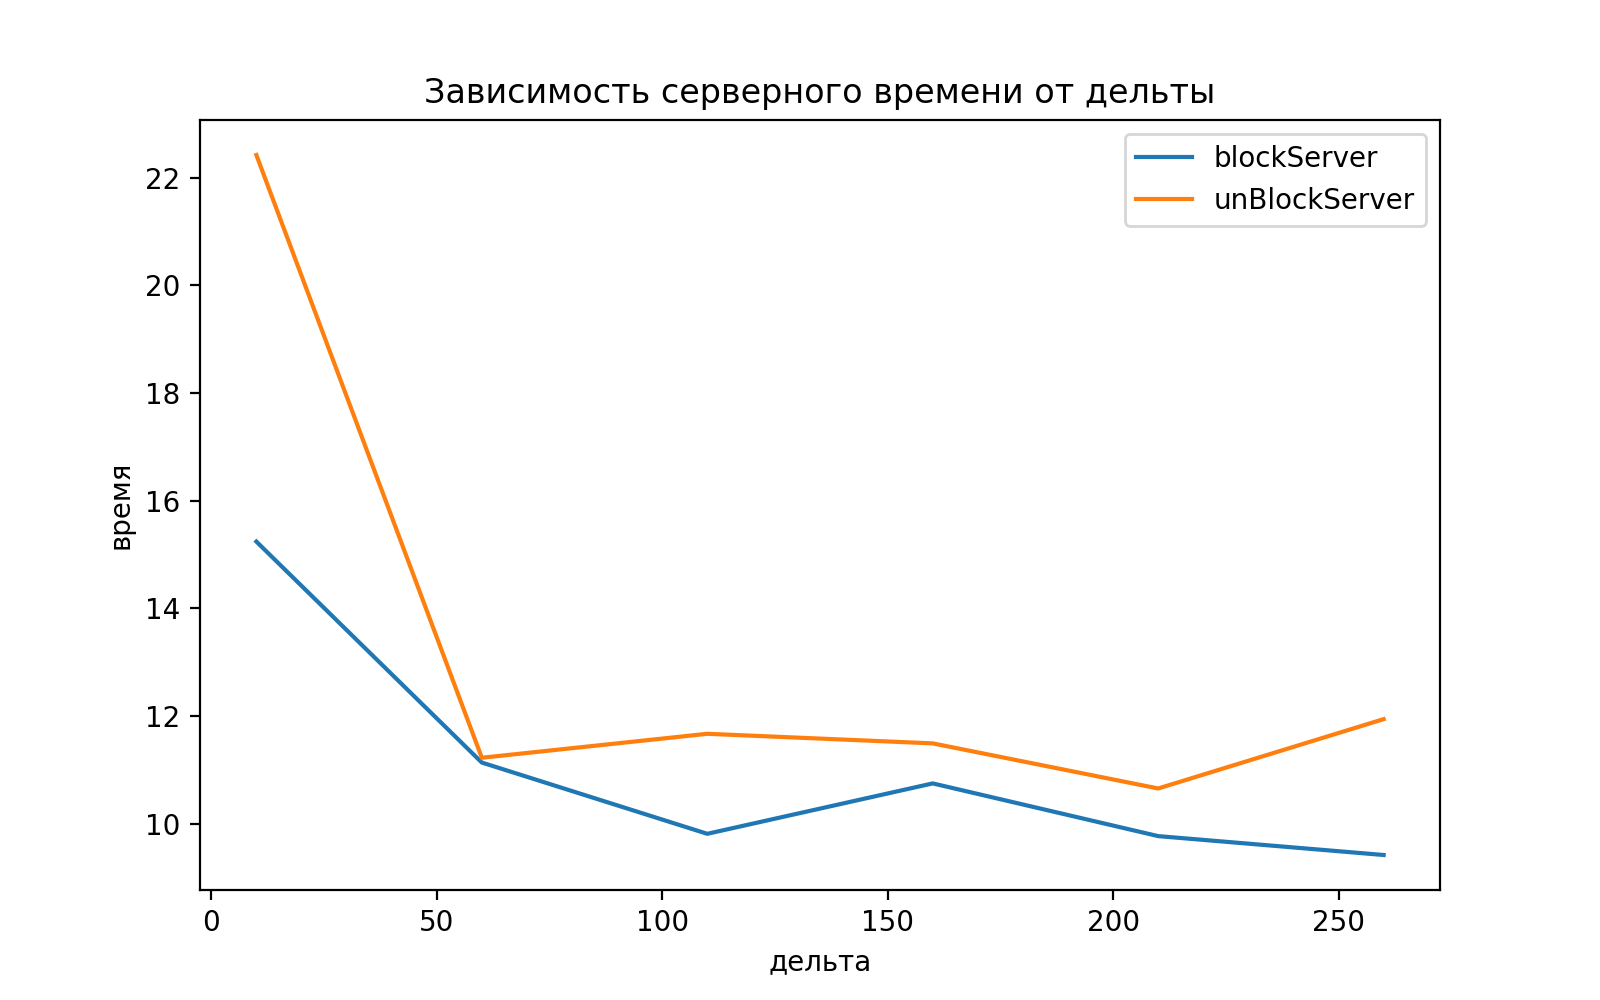
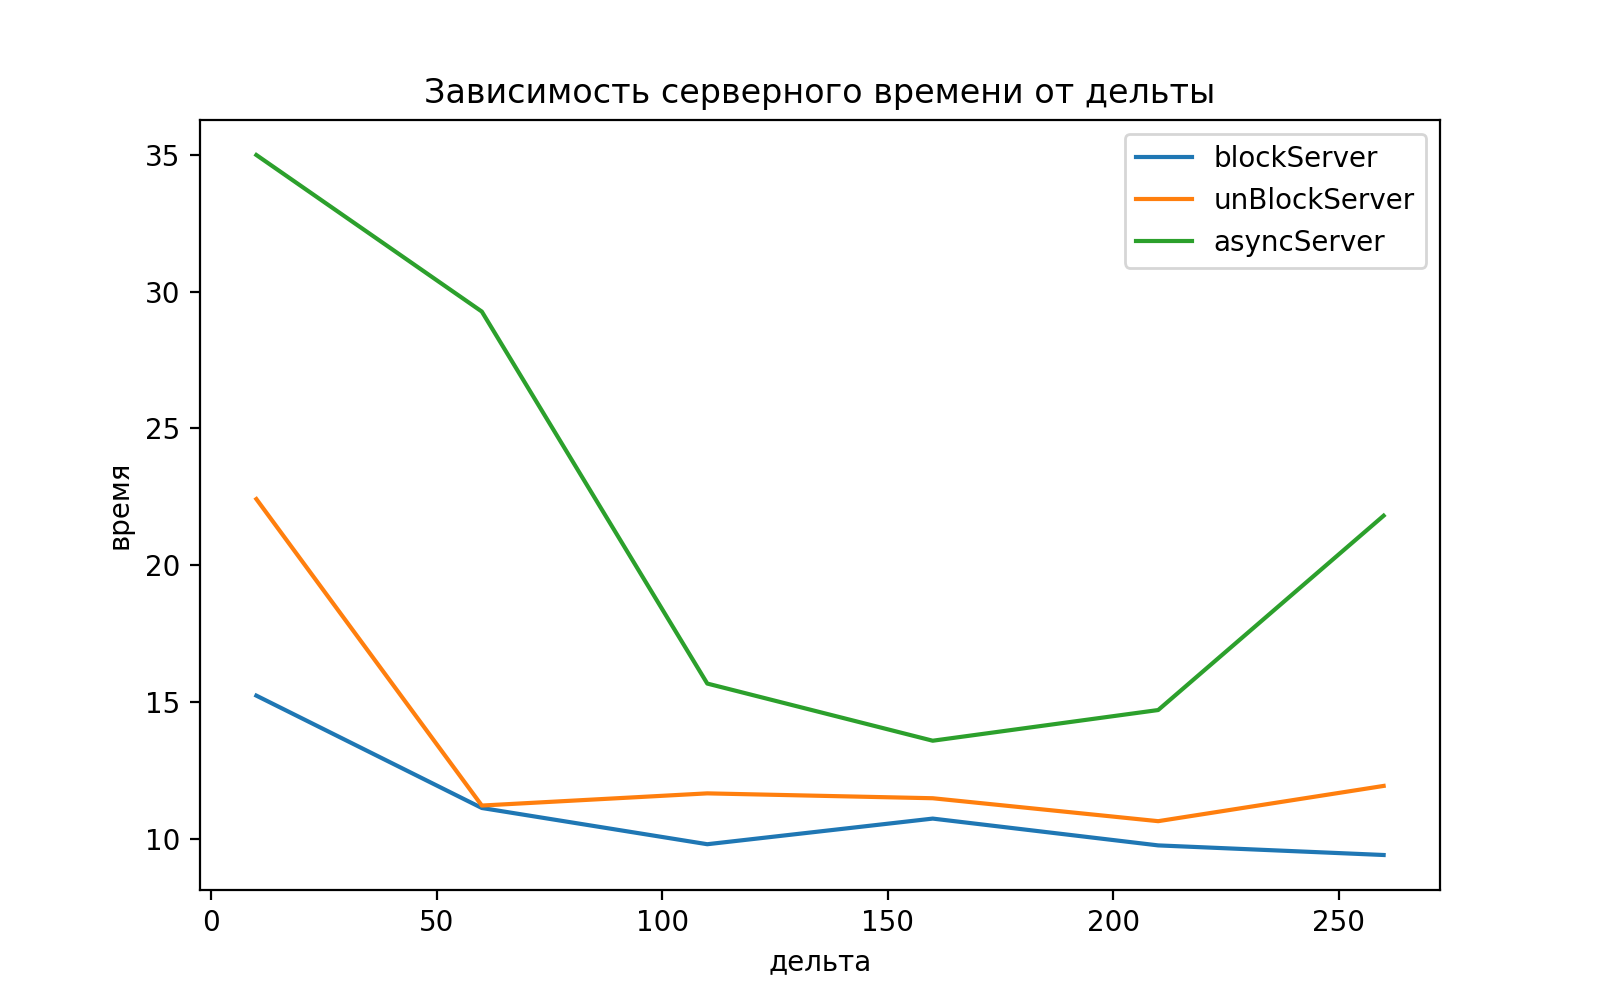
graphics

diff --git a/server/src/main/java/ru/itmo/java/server/asyncron/Context.java b/server/src/main/java/ru/itmo/java/server/asyncron/Context.java
@@ -11,44 +11,49 @@ import java.util.List;
 
 public class Context {
     private AsynchronousSocketChannel asyncSocketChannel;
-    private ByteBuffer buffer = ByteBuffer.allocate(1024);
+    private ByteBuffer buffer;
+    private ByteBuffer sizeBuffer = ByteBuffer.allocate(4);
     private ByteBuffer writeBuffer;
     private int messageSize;
     private byte[] readyMessage;
     private List<Integer> arr;
-    public int countQueries  = 0;
+    public int countQueries = 0;
 
     public Context(AsynchronousSocketChannel asyncSocketChannel) {
         this.asyncSocketChannel = asyncSocketChannel;
     }
 
     public ByteBuffer getReadBuffer() {
+        if (buffer == null) {
+            return sizeBuffer;
+        }
         return buffer;
     }
 
     public boolean isReadyMessage() {
-        buffer.flip();
-        if (readyMessage == null) {
-
-            if (buffer.remaining() >= 4) {
-                messageSize = buffer.getInt();
-                readyMessage = new byte[messageSize];
+        if (buffer == null) {
+            if (sizeBuffer.hasRemaining()) {
+                return false;
             }
-        }
-
-        if (buffer.remaining() < messageSize) {
-            buffer.compact();
+            sizeBuffer.flip();
+            messageSize = sizeBuffer.getInt();
+            buffer = ByteBuffer.allocate(messageSize);
+            sizeBuffer.clear();
             return false;
         }
 
-        buffer.get(readyMessage);
+//        System.out.println("messageSize " + messageSize + " buffer.remaining(): " + buffer.remaining());
+        if (buffer.hasRemaining()) {
+            return false;
+        }
+        buffer.flip();
+
         try {
-            arr = new ArrayList<>(Request.parseFrom(readyMessage).getArrList());
-            readyMessage = null;
+            arr = new ArrayList<>(Request.parseFrom(buffer.array()).getArrList());
         } catch (InvalidProtocolBufferException e) {
             e.printStackTrace();
         }
-        buffer.compact();
+        buffer = null;
         return true;
     }
 

diff --git a/starter/src/main/java/Starter.java b/starter/src/main/java/Starter.java
@@ -14,7 +14,6 @@ public class Starter {
         int countQueries = Integer.parseInt(args[1]);
         Constants.COUNT_QUERIES = countQueries;
 
-
         // params
         int countClient = Integer.parseInt(args[2]);
         int delta = Integer.parseInt(args[3]);
@@ -77,15 +76,11 @@ public class Starter {
             }
             System.out.println("join");
             serverThread.join();
-            System.out.println("end join " + serverThread.isAlive());
             for (int i = 0; i < clientThreads.length; i++) {
-                System.out.println("begin i in for " + i);
                 clientThreads[i].interrupt();
                 clients[i].stop();
                 clientThreads[i].join();
-                System.out.println("i in for " + i);
             }
-            System.out.println("client interrupt");
             System.out.println("---");
         }
         System.out.println("END");

diff --git a/server/src/main/java/ru/itmo/java/server/asyncron/AsyncronousServer.java b/server/src/main/java/ru/itmo/java/server/asyncron/AsyncronousServer.java
@@ -13,7 +13,7 @@ public class AsyncronousServer extends AbstractServer {
     private ExecutorService threadPool = Executors.newFixedThreadPool(10);
     private CountDownLatch countDownLatch = new CountDownLatch(countClients);
     private final CountDownLatch exitClient = new CountDownLatch(1);
-    private final TestResultFixer testResultFixer = new TestResultFixer(Constants.countClientAsyncTaskT, Constants.countClientAsyncServerT);
+    private final TestResultFixer testResultFixer = new TestResultFixer(Constants.deltaAsyncTaskT, Constants.deltaAsyncServerT);
     public AsyncronousServer(int countClients) {
         super(countClients);
     }

diff --git a/server/src/main/java/ru/itmo/java/server/asyncron/Task.java b/server/src/main/java/ru/itmo/java/server/asyncron/Task.java
@@ -28,6 +28,7 @@ public class Task implements Runnable {
 
     @Override
     public void run() {
+//        System.out.println("context.getArray() " + context.getArray().size());
         long startTaskTime = System.currentTimeMillis();
         List<Integer> sortArr = ArrayUtils.makeSort(context.getArray());
         context.addSortArray(sortArr);
